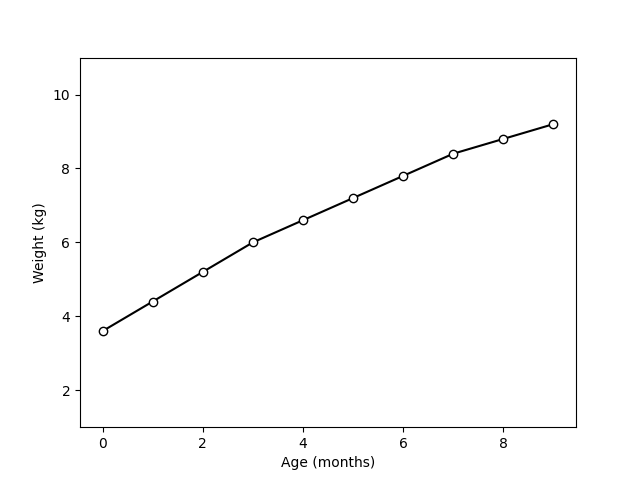
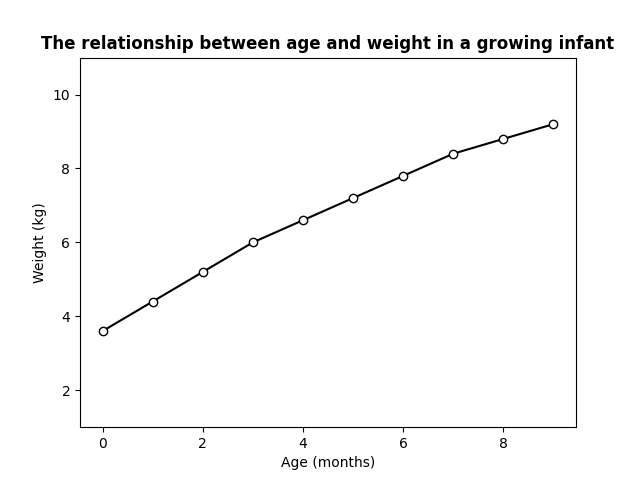
Quest3

Changed region(s): [[0.0625, 0.0625, 0.9688, 0.125]]

diff --git a/graphsS7.py b/graphsS7.py
@@ -1,7 +1,8 @@
 #!/usr/bin/python3
+from numpy.core.fromnumeric import size
 import pandas as pd
 import matplotlib.pyplot as plt
-
+import numpy as np
 
 # Menu
 def main():
@@ -12,7 +13,7 @@ def main():
     elif choice == 2:
         questTwo()
     elif choice == 3:
-        print("fodase")
+        questThree()
     elif choice == 4:
         print("fodase")
     elif choice == 5:
@@ -22,19 +23,20 @@ def main():
     elif choice == 7:
         print("fodase")
 
-#Questão 1
+## Questão 1
 def questOne():
     data = pd.read_csv("data/weight_chart.txt", usecols=['Age', 'Weight'], delim_whitespace=True)
 
     data.plot.line(x='Age', y='Weight', marker='o', markerfacecolor='white', color="#000000", legend=False)
     plt.xlabel("Age (months)")
     plt.ylabel("Weight (kg)")
+    plt.title("The relationship between age and weight in a growing infant", fontweight="bold")
 
     plt.ylim(1,11)
     plt.savefig("Quest1.png")
     plt.show()
 
-#Questão 2
+## Questão 2
 def questTwo():
     data = pd.read_csv("data/feature_counts.txt", delim_whitespace=True)
 
@@ -42,13 +44,29 @@ def questTwo():
     plt.xlabel("Number of features")
 
     plt.xticks([0, (2*10**4), (4*10**4),(6*10**4)])
-    plt.box(False)
     plt.tight_layout()
+    plt.box(False)
     plt.show()
     plt.savefig("Quest2.png")
 
+## Questão 3
 def questThree():
-    data = pd.read_csv("data/feature_counts.txt", delim_whitespace=True)
+    data1 = np.random.normal(size=10**4)
+    data2 = np.random.normal(loc=4, size=10**4)
+    data = np.concatenate([data1, data2])
+
+    fig, ax = plt.subplots()
+    ax.spines["right"].set_visible(False)
+    ax.spines["top"].set_visible(False)
+
+    plt.xlim(-4,8)
+    plt.hist(data, bins=100, edgecolor='black', color="lightgray")
+
+    plt.title("Mixed distribution histogram", fontweight="bold")
+    plt.ylabel("Frequency")
+    plt.xlabel("Values")
+    plt.savefig("Quest3.png")
+    plt.show()
 
 
-questThree()
+main()
